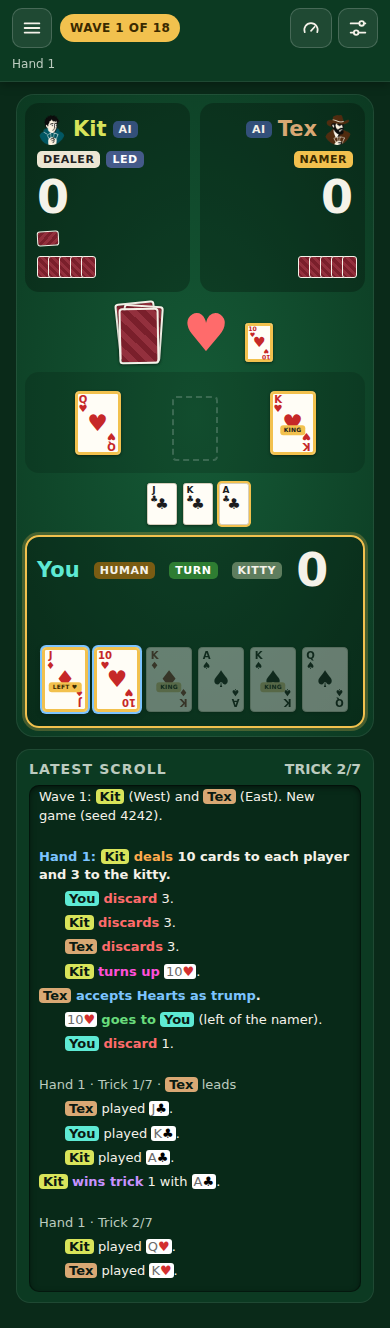
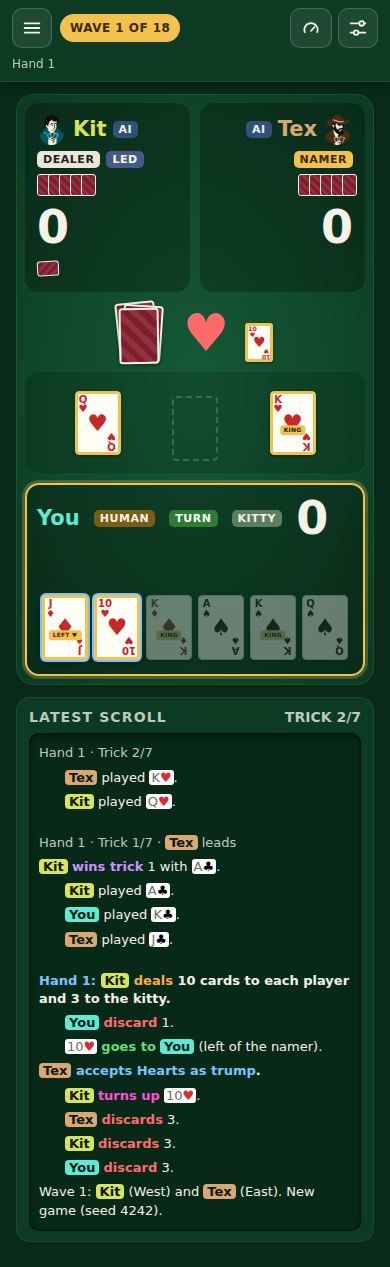
Put hand backs above the score; fold the last trick into a newest-first log
The center last-trick row repeated the log, so it is hidden. The log
lists newest first, and collapses to two rows: the last trick (fixed)
and the newest line. Opponent seats show the hand backs above the score.
Mockup and Advanced profile updated to match.

Claude-Session: https://claude.ai/code/session_01QkpazkapUFZWg4SWZB1dDA

diff --git a/index.html b/index.html
@@ -2050,7 +2050,7 @@ const UI_PROFILE_ADVANCED = Object.freeze({
   '.tag': { kind: 'L', show: 'Word tags in one fixed order: Human/AI, Dealer, Turn, Namer, Kitty, Led, then Mediator or Showdown. New: Turn and Led. Mirrored with the seat.', click: null, issue: 53 },
   '.score': { kind: 'S', show: 'The score as a larger number, without "/10". Mirrored with the seat.', click: null, issue: 53 },
   '.tricks': { kind: 'S', show: 'A face-down stack of won tricks, one small back per trick. A Showdown adds a second stack.', click: 'When the "Look back at won tricks" setting is on (default off): a popup shows the cards of each trick in the stack. When it is off, the stack is not a control.', issue: 53 },
-  '.backs': { kind: 'S', show: 'As now: one small back for each card in the hand.', click: null },
+  '.backs': { kind: 'S', show: 'One small back for each card in the hand, above the score. Seat order: head, hand backs, score, won-trick stack.', click: null, issue: 53 },
   '.discard-note': { kind: 'S', show: 'No text. The discarded backs slide from the hand to the outside pile.', click: null, issue: 53 },
   '.bubble': { kind: 'S', show: 'As now: "Pass", "Accepts ♠", "Names ♥ Hearts".', click: null },
   '.seat.turn': { kind: 'S', show: 'As now: the seat glows during its turn.', click: null },
@@ -2068,7 +2068,7 @@ const UI_PROFILE_ADVANCED = Object.freeze({
   '.trick': { kind: 'S', show: 'As now: one slot per seat. At trick end the cards slide to the winner\'s won-trick stack.', click: 'Skips the trick-end wait, as now.', issue: 53 },
   'table.stats': { kind: 'R', show: 'As now.', click: null },
   '.status': { kind: 'S', show: 'Hidden on screen. #liveStatus still reads the full sentence to screen readers.', click: null, issue: 53 },
-  '.lasttrick': { kind: 'R', show: 'The three small cards, the winning card marked. No caption.', click: null, issue: 53 },
+  '.lasttrick': { kind: 'R', show: 'Hidden in the center: it repeats the log. The collapsed log shows the last trick instead.', click: null, issue: 53 },
   // 2.3 Your seat
   '.seat-toggle': { kind: 'C, L', show: 'As now: Human or AI.', click: 'Lets the AI take over your seat, or hands it back, when the setting allows it.' },
   '.playing-as': { kind: 'S', show: 'As now: the face and "playing as Nora".', click: null },
@@ -2088,7 +2088,7 @@ const UI_PROFILE_ADVANCED = Object.freeze({
   // 5. Settings panel
   '#settingsPanel': { kind: 'C, L, D, S, R', show: 'As now, at every UI level, hints and tooltips included. New: an Interface section to choose the UI level.', click: 'As now.', issue: 53 },
   // 6. Log panel, 7. Notices, 8. Card
-  '.logpanel': { kind: 'L, R', show: 'Open: as now. Collapsed: a plain loupe that shows only the latest line, in short form. No light or shadow effects.', click: 'Collapses the log to the loupe, and opens it again.', issue: 53 },
+  '.logpanel': { kind: 'L, R', show: 'Newest first: each group keeps its heading on top, its lines newest first. Collapsed: two rows. The last trick, fixed (three small cards, the winning card marked, and who won), and the newest log line in short form. No light or shadow effects.', click: 'Collapses the log, and opens it again.', issue: 53 },
   '.toast': { kind: 'S', show: 'As now: every toast.', click: null },
   '#updateNote': { kind: 'S, C', show: 'As now: every level keeps the update note.', click: 'As now: Reload or Later.' },
   '.c-tag': { kind: 'L', show: 'As now (BEST, RIGHT, LEFT ♠), plus a new KING tag on every King.', click: null, issue: 53 },

diff --git a/mockups/advanced.js b/mockups/advanced.js
@@ -19,7 +19,15 @@ const css = `
 .messy .card{position:absolute;--w:var(--cw-small);left:0;top:0}
 .trump-big div{display:none}.trump-big .sym{font-size:calc(var(--cw-small)*1.3)!important}
 .turned .card{--w:calc(var(--cw-small)*.7)}
-.lasttrick{font-size:0!important}
+.center .lasttrick{display:none!important}
+.seat .backs{order:1}.seat .score-row{order:2}.seat .won{order:3}.seat .seat-head{order:0}
+.loupe{display:none;flex-direction:column;gap:6px;background:rgba(0,0,0,.28);border-radius:10px;padding:8px 10px;font-size:13px}
+.loupe .lt{display:flex;align-items:center;gap:6px;color:var(--muted);font-size:12px}
+.loupe .lt .card{--w:28px}
+.loupe .lt .who-won{margin-left:auto}
+.loupe .now{background:none;box-shadow:none;border-radius:0;max-height:none;overflow:visible;border-top:1px solid rgba(255,255,255,.1);padding-top:6px;list-style:none;margin:0;padding-left:0}
+.logpanel.collapsed #gameLog{display:none}.logpanel.collapsed .loupe{display:flex}.logpanel.collapsed{min-height:0}
+.gamelog li.gap:first-child{margin-top:0}
 .c-tag.king{background:#f2c14e;color:#1b1b1b}
 .logpanel h2 .tn{float:right;color:var(--muted);font-weight:600;letter-spacing:0}
 `;
@@ -47,3 +55,14 @@ const turned = $$('.pile').find(p => /Turned card/.test(p.textContent));
 if (turned && window.__turnedHTML) turned.innerHTML = '<div class="turned pile-cards">' + window.__turnedHTML + '</div>';
 // KING tag on every King.
 for (const c of $$('.card[data-card^="K"]')) if (!$('.c-tag', c)) c.insertAdjacentHTML('beforeend', '<span class="c-tag king">KING</span>');
+
+// Log: newest first. Groups start at li.gap; each keeps its heading on top, its lines newest first.
+const log = $('#gameLog'), groups = [];
+for (const li of [...log.children]) { if (!groups.length || li.classList.contains('gap')) groups.push([]); groups[groups.length - 1].push(li); }
+log.replaceChildren(...groups.reverse().flatMap(g => g[0].classList.contains('gap') ? [g[0], ...g.slice(1).reverse()] : g.slice().reverse()));
+// Collapsed view: the last trick (fixed) and the newest log line.
+const lt = $('.center .lasttrick'), cards = lt ? $$('.card', lt).map(c => c.outerHTML).join('') : '';
+const won = window.__lastWinner || '';
+const latest = [...log.children].find(li => !li.classList.contains('gap'));
+$('.logpanel h2').insertAdjacentHTML('afterend', '<div class="loupe"><div class="lt">' + cards + '<span class="who-won">' + won + '</span></div><ol class="gamelog now">' + (latest ? latest.outerHTML.replace(/class="[^"]*"/, '') : '') + '</ol></div>');
+if (window.__collapsed) $('.logpanel').classList.add('collapsed');

diff --git a/mockups/shot.js b/mockups/shot.js
@@ -12,11 +12,13 @@ const fs = require('fs'), ADV = fs.readFileSync(__dirname + '/advanced.js', 'utf
         await drive(() => app.state.phase === P.TRICK_PLAY && app.state.trick && app.state.trick.plays.length >= 1 && app.state.trickNumber >= 2 && KCT.Engine.actors(app.state).includes(0));
         speed('slow'); await sleep(2500);`, null, ['drive.js']);
       await page.screenshot({ path: __dirname + '/before-' + tag + '.png', fullPage: tag === 'phone' });
-      await page.evaluate(src => { window.__turn = 0; window.__led = 1; window.__trick = 'Trick 2/7';
+      await page.evaluate(src => { window.__turn = 0; window.__led = 1; window.__trick = 'Trick 2/7'; window.__lastWinner = '<span class="p1" style="background:var(--name1);color:#0b1a12;font-weight:800;border-radius:4px;padding:0 4px">Kit</span> won';
         window.__turnedHTML = '<div class="card red trump" data-card="10H"><span class="c-tl">10<br>♥</span><span class="c-mid">♥</span><span class="c-br">10<br>♥</span></div>';
         new Function(src)(); }, ADV);
       await page.waitForTimeout(200);
       await page.screenshot({ path: __dirname + '/advanced-' + tag + '.png', fullPage: tag === 'phone' });
+      await page.evaluate(() => document.querySelector('.logpanel').classList.add('collapsed'));
+      await page.screenshot({ path: __dirname + '/advanced-collapsed-' + tag + '.png', fullPage: tag === 'phone' });
       if (errors.length) console.log(tag, errors);
       await page.context().close();
     }
